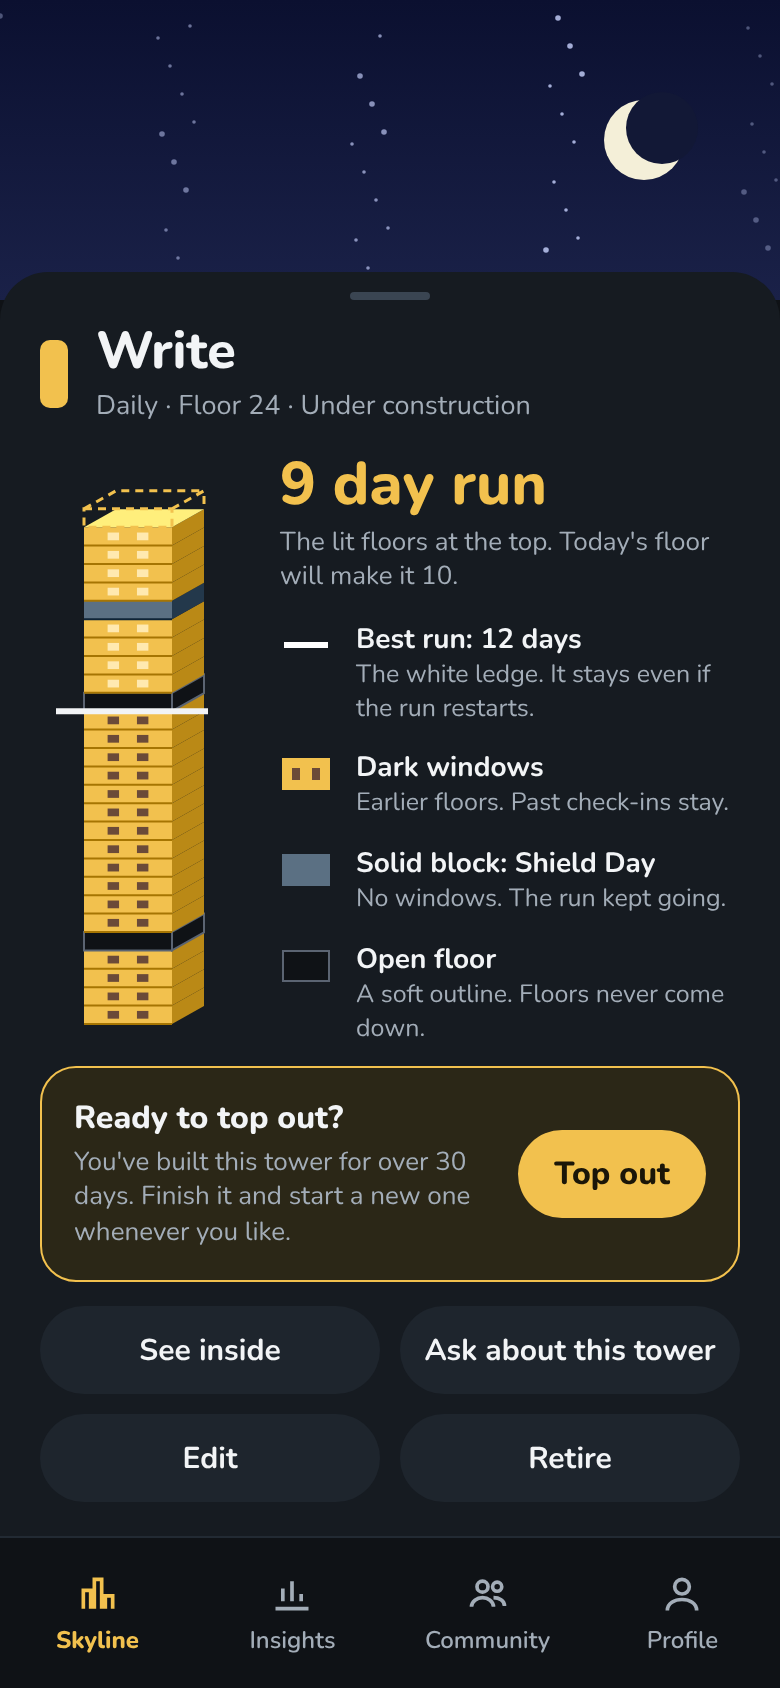
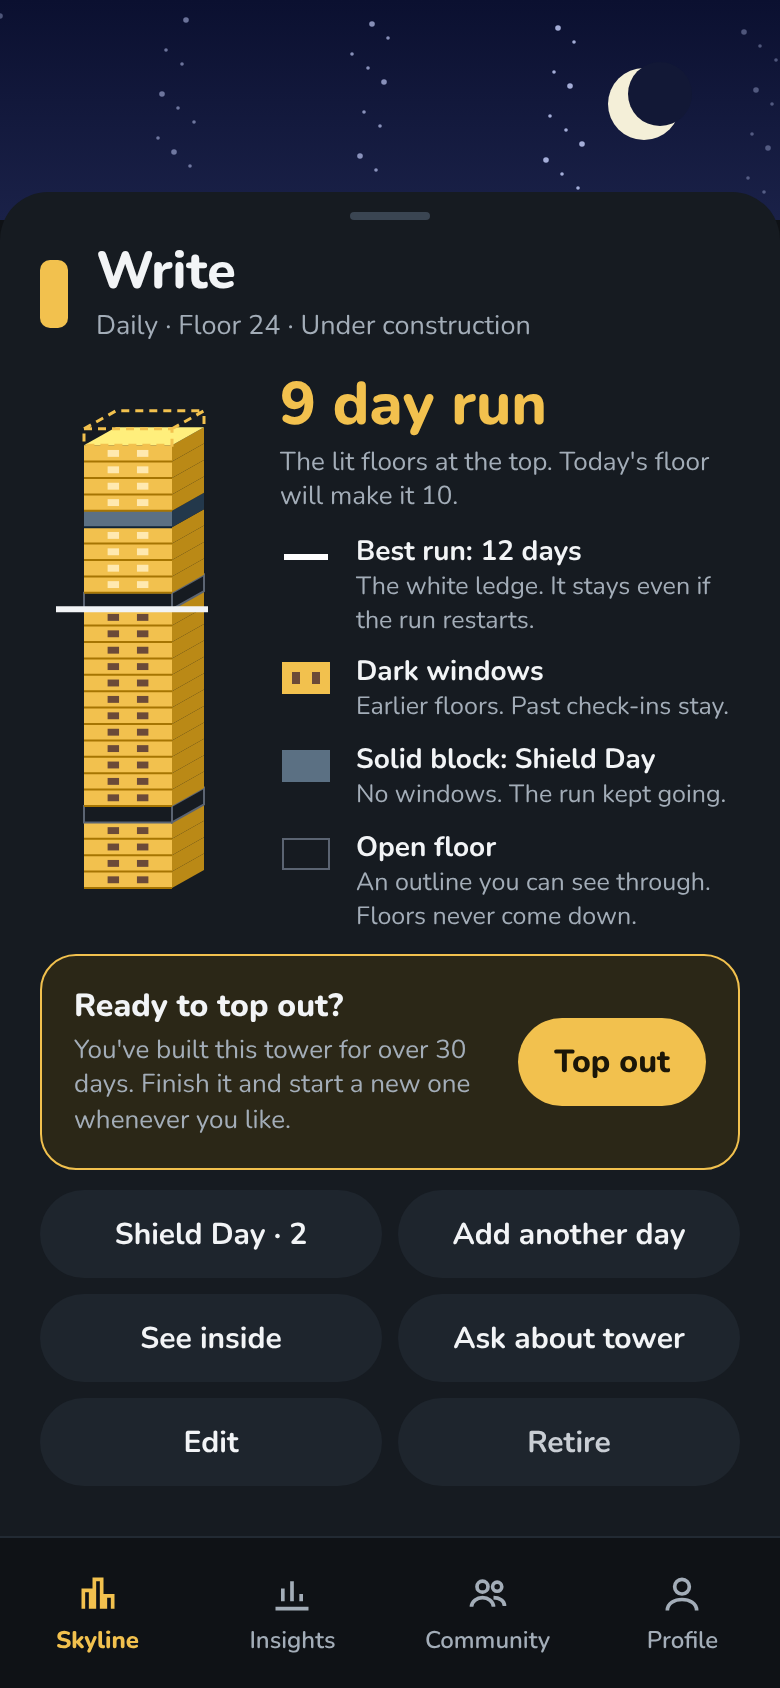
Design: see-through open floor, 2-column tower sheet grid, Insights v2 notes
Owner decisions 2026-11-13: open floor stays see-through (matches the
build), so board 22 is redrawn and 03/07 follow. Tower sheet uses a
2-column grid of 6 actions plus a Top out card shown only when eligible;
the layout is pending final approval. README records the Insights v2
cards from the developer's commit bf0e51c.

Claude-Session: https://claude.ai/code/session_01UvWD32uMFJU1E2B9jDYiLg

diff --git a/design/skyline/source/screens.html b/design/skyline/source/screens.html
@@ -11,7 +11,7 @@ body{width:390px;height:844px;background:var(--bg);color:var(--text);font-family
 .tab svg{width:22px;height:22px}
 h1{font-weight:800}
 .btn{background:var(--s2);border-radius:22px;height:44px;display:flex;align-items:center;justify-content:center;font-weight:700;font-size:15px}
-.legend{display:flex;gap:12px;align-items:flex-start;margin-top:12px}
+.legend{display:flex;gap:12px;align-items:flex-start;margin-top:8px}
 .legend b{display:block;font-size:14px;font-weight:700}
 .legend span{display:block;font-size:12.5px;color:var(--muted);line-height:1.35}
 .sw{flex:0 0 26px;height:26px;display:flex;align-items:center;justify-content:center}
@@ -28,7 +28,11 @@ function tower({x,base,w,fh,dx,dy,floors,windows=2,today=true,ledgeAfter=null,se
     const front=`M${x},${y}h${w}v${fh}h${-w}Z`;
     const side=`M${x+w},${y}l${dx},${-dy}v${fh}l${-dx},${dy}Z`;
     if(st==='open'){
-      s+=`<path d="${front}" fill="#0F1216" stroke="${C.open}" stroke-width="1"/><path d="${side}" fill="#0F1216" stroke="${C.open}" stroke-width="1"/>`;
+      if(window.OPEN_MODE!=='block'){
+        s+=`<path d="${front}" fill="none" stroke="${C.open}" stroke-width="1"/><path d="${side}" fill="none" stroke="${C.open}" stroke-width="1"/>`;
+      } else {
+        s+=`<path d="${front}" fill="#141920" stroke="${shade(C.front,-45)}" stroke-width="1.2"/><path d="${side}" fill="#10141a" stroke="${shade(C.front,-45)}" stroke-width="1.2"/>`;
+      }
       return;
     }
     const f= st==='shield'?C.shield:C.front;
@@ -61,11 +65,11 @@ const screen=new URLSearchParams(location.search).get('s');
 if(screen==='towersheet'){
   // 4 past, open, 12-day past run (best), open, current run 9 = 4 lit + shield + 4 lit
   const floors=[...rep('dark',4),'open',...rep('dark',12),'open',...rep('lit',4),'shield',...rep('lit',4)];
-  let stars='';for(let i=0;i<40;i++){stars+=`<circle cx="${(i*97)%390}" cy="${(i*53)%130+8}" r="${i%3?0.9:1.4}" fill="#c9d3ff" opacity="${0.35+(i%4)*0.15}"/>`}
+  let stars='';for(let i=0;i<40;i++){stars+=`<circle cx="${(i*97)%390}" cy="${(i*53)%95+8}" r="${i%3?0.9:1.4}" fill="#c9d3ff" opacity="${0.35+(i%4)*0.15}"/>`}
   document.getElementById('root').innerHTML=`
-  <svg width="390" height="150" style="position:absolute;top:0;left:0"><defs><linearGradient id="g" x1="0" y1="0" x2="0" y2="1"><stop offset="0" stop-color="#0B1030"/><stop offset="1" stop-color="#1A2148"/></linearGradient></defs>
-  <rect width="390" height="150" fill="url(#g)"/>${stars}<circle cx="322" cy="70" r="20" fill="#F4EFD8"/><circle cx="331" cy="64" r="18" fill="#121836"/></svg>
-  <div style="position:absolute;top:136px;left:0;right:0;bottom:76px;background:var(--s1);border-radius:24px 24px 0 0;padding:0 20px">
+  <svg width="390" height="110" style="position:absolute;top:0;left:0"><defs><linearGradient id="g" x1="0" y1="0" x2="0" y2="1"><stop offset="0" stop-color="#0B1030"/><stop offset="1" stop-color="#1A2148"/></linearGradient></defs>
+  <rect width="390" height="110" fill="url(#g)"/>${stars}<circle cx="322" cy="52" r="18" fill="#F4EFD8"/><circle cx="330" cy="47" r="16" fill="#121836"/></svg>
+  <div style="position:absolute;top:96px;left:0;right:0;bottom:76px;background:var(--s1);border-radius:24px 24px 0 0;padding:0 20px">
     <div style="width:40px;height:4px;border-radius:2px;background:#3A4552;margin:10px auto 12px"></div>
     <div style="display:flex;gap:14px;align-items:center">
       <div style="width:14px;height:34px;border-radius:5px;background:${C.front}"></div>
@@ -73,14 +77,14 @@ if(screen==='towersheet'){
       <div style="color:var(--muted);font-size:13.5px;margin-top:2px">Daily · Floor 24 · Under construction</div></div>
     </div>
     <div style="display:flex;gap:16px;margin-top:14px">
-      <svg width="104" height="290" style="flex:0 0 104px">${tower({x:22,base:286,w:44,fh:9.2,dx:16,dy:9,floors,windows:2,ledgeAfter:17})}</svg>
+      <svg width="104" height="262" style="flex:0 0 104px">${tower({x:22,base:258,w:44,fh:8.2,dx:16,dy:9,floors,windows:2,ledgeAfter:17})}</svg>
       <div style="flex:1">
         <div style="font-size:30px;font-weight:800;color:var(--amber);line-height:1.1">9 day run</div>
         <div style="color:var(--muted);font-size:13px;margin-top:4px;line-height:1.35">The lit floors at the top. Today's floor will make it 10.</div>
         <div class="legend"><div class="sw"><div style="width:22px;height:3px;background:#fff"></div></div><div><b>Best run: 12 days</b><span>The white ledge. It stays even if the run restarts.</span></div></div>
         <div class="legend"><div class="sw"><svg width="24" height="16"><rect width="24" height="16" fill="${C.front}"/><rect x="5" y="5" width="4" height="6" fill="${C.dark}"/><rect x="15" y="5" width="4" height="6" fill="${C.dark}"/></svg></div><div><b>Dark windows</b><span>Earlier floors. Past check-ins stay.</span></div></div>
         <div class="legend"><div class="sw"><svg width="24" height="16"><rect width="24" height="16" fill="${C.shield}"/></svg></div><div><b>Solid block: Shield Day</b><span>No windows. The run kept going.</span></div></div>
-        <div class="legend"><div class="sw"><svg width="24" height="16"><rect x=".5" y=".5" width="23" height="15" fill="#0F1216" stroke="${C.open}"/></svg></div><div><b>Open floor</b><span>A soft outline. Floors never come down.</span></div></div>
+        <div class="legend"><div class="sw"><svg width="24" height="16"><rect x=".5" y=".5" width="23" height="15" fill="none" stroke="${C.open}" stroke-dasharray="0"/></svg></div><div><b>Open floor</b><span>An outline you can see through. Floors never come down.</span></div></div>
       </div>
     </div>
     <div style="margin-top:10px;border:1.5px solid var(--amber);background:#2B2717;border-radius:18px;padding:14px 16px;display:flex;gap:12px;align-items:center">
@@ -88,8 +92,8 @@ if(screen==='towersheet'){
       <div style="color:var(--muted);font-size:13px;line-height:1.35;margin-top:3px">You've built this tower for over 30 days. Finish it and start a new one whenever you like.</div></div>
       <div style="background:var(--amber);color:#1b1608;font-weight:800;border-radius:22px;height:44px;padding:0 18px;display:flex;align-items:center">Top out</div>
     </div>
-    <div style="display:grid;grid-template-columns:1fr 1fr;gap:10px;margin-top:12px">
-      <div class="btn">See inside</div><div class="btn">Ask about this tower</div><div class="btn">Edit</div><div class="btn">Retire</div>
+    <div style="display:grid;grid-template-columns:1fr 1fr;gap:8px;margin-top:10px">
+      <div class="btn">Shield Day · 2</div><div class="btn">Add another day</div><div class="btn">See inside</div><div class="btn">Ask about tower</div><div class="btn">Edit</div><div class="btn" style="color:#C9CED4">Retire</div>
     </div>
   </div>${tabs}`;
 }
@@ -129,8 +133,55 @@ if(screen==='crosssection'){
     <span style="display:flex;gap:5px;align-items:center"><svg width="16" height="10"><rect width="16" height="10" fill="${C.front}"/><rect x="3" y="3" width="3" height="4" fill="${C.lit}"/><rect x="10" y="3" width="3" height="4" fill="${C.lit}"/></svg>This run</span>
     <span style="display:flex;gap:5px;align-items:center"><svg width="16" height="10"><rect width="16" height="10" fill="${C.front}"/><rect x="3" y="3" width="3" height="4" fill="${C.dark}"/><rect x="10" y="3" width="3" height="4" fill="${C.dark}"/></svg>Earlier</span>
     <span style="display:flex;gap:5px;align-items:center"><svg width="16" height="10"><rect width="16" height="10" fill="${C.shield}"/></svg>Shield Day</span>
-    <span style="display:flex;gap:5px;align-items:center"><svg width="16" height="10"><rect x=".5" y=".5" width="15" height="9" fill="#0F1216" stroke="${C.open}"/></svg>Open</span>
+    <span style="display:flex;gap:5px;align-items:center"><svg width="16" height="10"><rect x=".5" y=".5" width="15" height="9" fill="none" stroke="${C.open}"/></svg>Open</span>
   </div>
   ${tabs}`;
+}
+
+if(screen==='openfloor'){
+  let stars='';for(let i=0;i<120;i++){stars+=`<circle cx="${(i*97)%390}" cy="${(i*53)%520+40}" r="${i%3?0.9:1.5}" fill="#dfe6ff" opacity="${0.4+(i%4)*0.15}"/>`}
+  const fl=[...rep('dark',5),'open',...rep('dark',3),'open',...rep('lit',3),'shield',...rep('lit',3)];
+  const draw=(mode,x)=>{window.OPEN_MODE=mode;return tower({x,base:560,w:90,fh:20,dx:22,dy:12,floors:fl,windows:3,today:true});};
+  document.getElementById('root').innerHTML=`
+  <svg width="390" height="844" style="position:absolute;top:0;left:0"><defs><linearGradient id="g" x1="0" y1="0" x2="0" y2="1"><stop offset="0" stop-color="#0B1030"/><stop offset="1" stop-color="#232a5a"/></linearGradient></defs>
+  <rect width="390" height="600" fill="url(#g)"/>${stars}
+  <rect y="560" width="390" height="284" fill="#0F1216"/>
+  ${draw('cutout',36)}${draw('block',238)}</svg>
+  <div style="position:absolute;top:24px;left:20px;right:20px"><h1 style="font-size:22px">Open floor: two options</h1><div style="color:var(--muted);font-size:13px;margin-top:4px">Same tower, night sky. Two open days in each.</div></div>
+  <div style="position:absolute;top:580px;left:16px;width:170px"><b style="font-size:16px">A · See-through</b><div style="color:var(--muted);font-size:13px;margin-top:6px;line-height:1.4">Current build. Outline only, the sky and stars show through the open floor.</div></div>
+  <div style="position:absolute;top:580px;left:206px;width:170px"><b style="font-size:16px">B · Framed block</b><div style="color:var(--muted);font-size:13px;margin-top:6px;line-height:1.4">Board 22 / SKYLINE §4. Filled with a dark surface tone and outlined in the tower's own color.</div></div>`;
+}
+if(screen==='towersheet-rows'){
+  const floors=[...rep('dark',4),'open',...rep('dark',12),'open',...rep('lit',4),'shield',...rep('lit',4)];
+  const row=(icon,label,sub,extra='')=>`<div style="display:flex;align-items:center;gap:12px;height:48px;border-bottom:1px solid #232b34;${extra}"><div style="width:28px;height:28px;border-radius:8px;background:var(--s2);display:flex;align-items:center;justify-content:center;font-size:14px">${icon}</div><div style="flex:1;font-weight:700;font-size:15px">${label}${sub?`<span style="display:block;font-weight:600;font-size:12px;color:var(--muted)">${sub}</span>`:''}</div><div style="color:var(--muted);font-size:18px">›</div></div>`;
+  document.getElementById('root').innerHTML=`
+  <div style="position:absolute;top:0;left:0;right:0;height:90px;background:linear-gradient(#0B1030,#1A2148)"></div>
+  <div style="position:absolute;top:70px;left:0;right:0;bottom:76px;background:var(--s1);border-radius:24px 24px 0 0;padding:0 20px">
+    <div style="width:40px;height:4px;border-radius:2px;background:#3A4552;margin:10px auto 10px"></div>
+    <div style="display:flex;gap:16px;align-items:center">
+      <svg width="64" height="150" style="flex:0 0 64px">${tower({x:8,base:146,w:30,fh:4.6,dx:10,dy:6,floors,windows:2,ledgeAfter:17})}</svg>
+      <div style="flex:1"><h1 style="font-size:24px">Write</h1><div style="color:var(--muted);font-size:13px">Daily · Floor 24 · Under construction</div>
+      <div style="font-size:26px;font-weight:800;color:var(--amber);margin-top:6px">9 day run</div><div style="color:var(--muted);font-size:12.5px">Best run 12 days · today makes it 10</div></div>
+    </div>
+    <div style="margin-top:10px;border:1.5px solid var(--amber);background:#2B2717;border-radius:16px;padding:10px 14px;display:flex;gap:10px;align-items:center">
+      <div style="flex:1"><div style="font-weight:800;font-size:15px">Ready to top out</div><div style="color:var(--muted);font-size:12.5px">Over 30 days old. Only shown when eligible.</div></div>
+      <div style="background:var(--amber);color:#1b1608;font-weight:800;border-radius:22px;height:44px;padding:0 16px;display:flex;align-items:center">Top out</div></div>
+    <div style="margin-top:6px">
+      ${row('✎','Edit','')}${row('▣','Shield Day','2 banked')}${row('▤','Look inside','Every floor, day by day')}${row('＋','Add for another day','Last 7 days')}${row('?','Ask about this tower','')}
+      ${row('◌','Retire','Becomes a grey monument','border-bottom:none;margin-top:10px;color:#C9CED4')}
+    </div>
+  </div>${tabs}`;
+}
+
+if(screen==='floorstates'){
+  let stars='';for(let i=0;i<90;i++){stars+=`<circle cx="${(i*97)%390}" cy="${(i*53)%700+20}" r="${i%3?0.9:1.4}" fill="#dfe6ff" opacity="${0.35+(i%4)*0.15}"/>`}
+  const fl=[...rep('dark',3),'open',...rep('lit',2),'shield',...rep('lit',3)];
+  const T=tower({x:40,base:700,w:120,fh:52,dx:26,dy:15,floors:fl,windows:3,today:false,gap:2});
+  const fy=i=>700-(i+0.5)*52;
+  const lab=(i,t,sub)=>`<line x1="196" x2="222" y1="${fy(i)}" y2="${fy(i)}" stroke="#5B6472" stroke-dasharray="3 3"/><text x="230" y="${fy(i)-2}" fill="#F2F4F6" font-size="16" font-weight="800" font-family="Nunito">${t}</text><text x="230" y="${fy(i)+17}" fill="#A3ADB8" font-size="12.5" font-family="Nunito">${sub}</text>`;
+  document.getElementById('root').innerHTML=`<svg width="390" height="844" style="position:absolute;top:0;left:0"><defs><linearGradient id="g" x1="0" y1="0" x2="0" y2="1"><stop offset="0" stop-color="#0B1030"/><stop offset="1" stop-color="#232a5a"/></linearGradient></defs>
+  <rect width="390" height="844" fill="url(#g)"/>${stars}<rect y="700" width="390" height="144" fill="#0F1216"/>${T}
+  ${lab(7,'Lit windows','Current run, lights on')}${lab(6,'Solid block','Shield Day, no windows')}${lab(3,'See-through outline','Open day, no check-in')}${lab(1,'Dark windows','Past check-ins stay')}</svg>
+  <div style="position:absolute;top:20px;left:20px;right:20px"><h1 style="font-size:22px">Floor states</h1><div style="color:var(--muted);font-size:13px;margin-top:4px">Reference for every tower. Revised 2026-11-13: open floor is see-through.</div></div>`;
 }
 </script></body></html>

diff --git a/design/skyline/source/shot.js b/design/skyline/source/shot.js
@@ -1,5 +1,5 @@
 const {chromium}=require('playwright');
 (async()=>{const b=await chromium.launch();const p=await b.newPage({viewport:{width:390,height:844},deviceScaleFactor:2});
-for(const s of ['towersheet','crosssection']){await p.goto('file://'+__dirname+'/screens.html?s='+s,{waitUntil:'networkidle'}).catch(()=>{});await p.waitForTimeout(800);
+for(const s of (process.argv[2]?process.argv.slice(2):['towersheet','crosssection'])){await p.goto('file://'+__dirname+'/screens.html?s='+s,{waitUntil:'networkidle'}).catch(()=>{});await p.waitForTimeout(800);
 const f=await p.evaluate(()=>document.fonts.check('16px Nunito'));console.log(s,'nunito',f);await p.screenshot({path:__dirname+'/'+s+'.png'});}
 await b.close();})();
